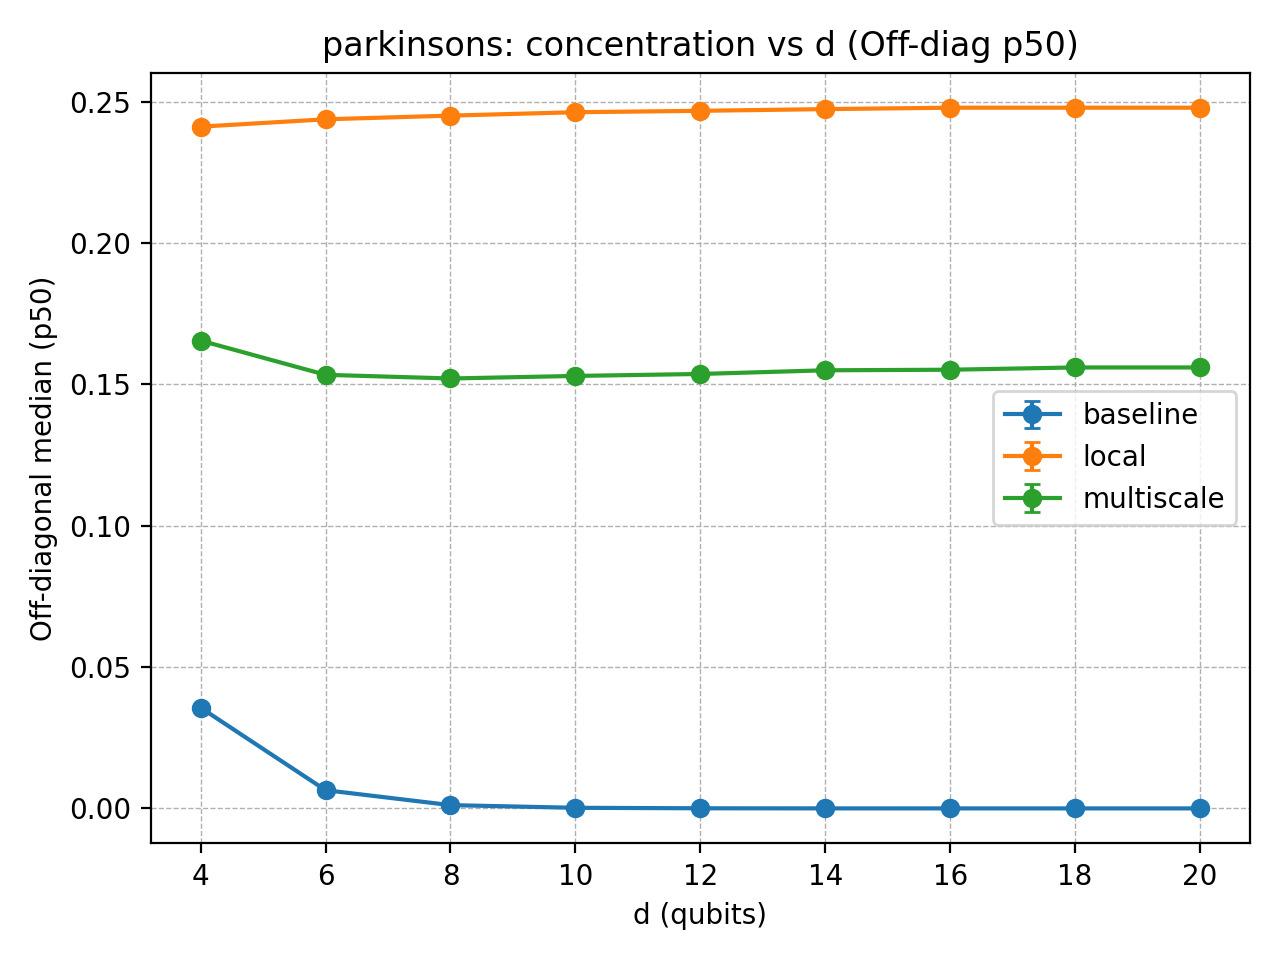
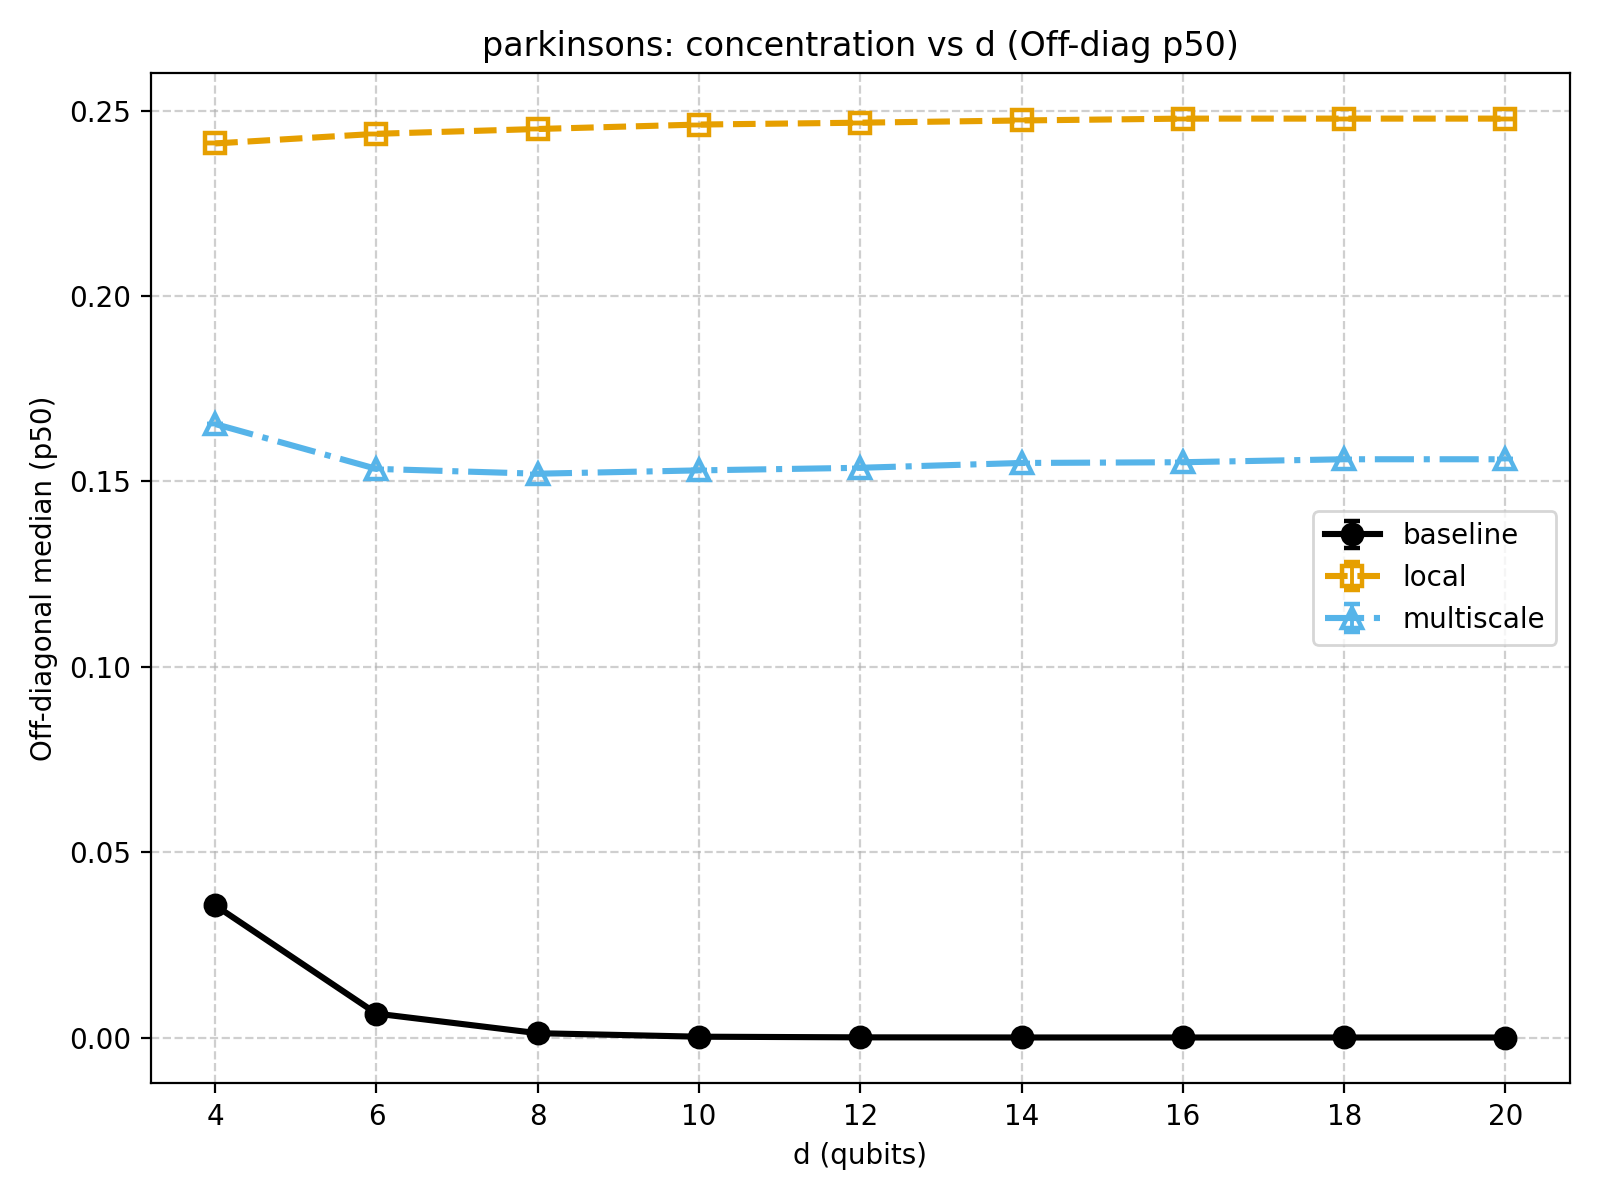
use other styles on plots

Changed region(s): [[0.0, 0.0312, 1.0, 0.9688]]

diff --git a/analysis/plot_vs_d.py b/analysis/plot_vs_d.py
@@ -36,6 +36,25 @@ from typing import Any, Dict, List, Optional, Sequence, Tuple
 
 import matplotlib.pyplot as plt
 
+# Color/marker styles
+# - Distinct markers + line styles so plots remain readable even in grayscale.
+# - Palette based on Okabe–Ito (high contrast), plus different linestyles.
+STYLE_MAP = {
+    "baseline":   dict(color="#000000", marker="o", linestyle="-",  markerfacecolor="#000000", markeredgecolor="#000000"),
+    "local":      dict(color="#E69F00", marker="s", linestyle="--", markerfacecolor="none",     markeredgecolor="#E69F00"),
+    "multiscale": dict(color="#56B4E9", marker="^", linestyle="-.", markerfacecolor="none",     markeredgecolor="#56B4E9"),
+}
+PLOT_ORDER = ["baseline", "local", "multiscale"]
+
+def _style_for_series(name: str) -> dict:
+    """Resolve style for a series name (robust to name decorations)."""
+    key = name.strip().lower()
+    for k in STYLE_MAP:
+        if key == k or key.startswith(k):
+            return STYLE_MAP[k].copy()
+    # Fallback: still use distinct marker/linestyle
+    return dict(marker="D", linestyle=":", markerfacecolor="none")
+
 
 # -----------------------------
 # Parsing helpers
@@ -305,30 +324,49 @@ def _plot_lines(
     ylabel: str,
     out_path: Path,
 ):
-    plt.figure()
-    for name, by_d in series.items():
-        ys = []
-        yerr = []
+    plt.figure(figsize=(8, 6))
+
+    names = [n for n in PLOT_ORDER if n in series] + [n for n in series.keys() if n not in PLOT_ORDER]
+
+    for name in names:
+        by_d = series[name]
+
+        ys: List[Optional[float]] = []
+        yerr: List[Optional[float]] = []
         for d in xs:
             m, s = by_d.get(d, (None, None))
             ys.append(m)
             yerr.append(s)
+
         # plot only where we have values
         xs_plot = [x for x, y in zip(xs, ys) if y is not None]
         ys_plot = [y for y in ys if y is not None]
         if not xs_plot:
             continue
 
-        # error bars if available
         yerr_plot = [e for y, e in zip(ys, yerr) if y is not None]
-        plt.errorbar(xs_plot, ys_plot, yerr=yerr_plot, marker="o", capsize=3, label=name)
+
+        style = _style_for_series(name)
+        plt.errorbar(
+            xs_plot,
+            ys_plot,
+            yerr=yerr_plot,
+            label=name,
+            linewidth=2.2,
+            markersize=7,
+            markeredgewidth=1.6,
+            capsize=3,
+            capthick=1.4,
+            elinewidth=1.4,
+            **style,
+        )
 
     plt.title(title)
     plt.xlabel("d (qubits)")
     plt.ylabel(ylabel)
     plt.xticks(xs)
-    plt.grid(True, which="both", linestyle="--", linewidth=0.5)
-    plt.legend()
+    plt.grid(True, which="both", linestyle="--", linewidth=0.8, alpha=0.6)
+    plt.legend(frameon=True)
     out_path.parent.mkdir(parents=True, exist_ok=True)
     plt.tight_layout()
     plt.savefig(out_path, dpi=200)
